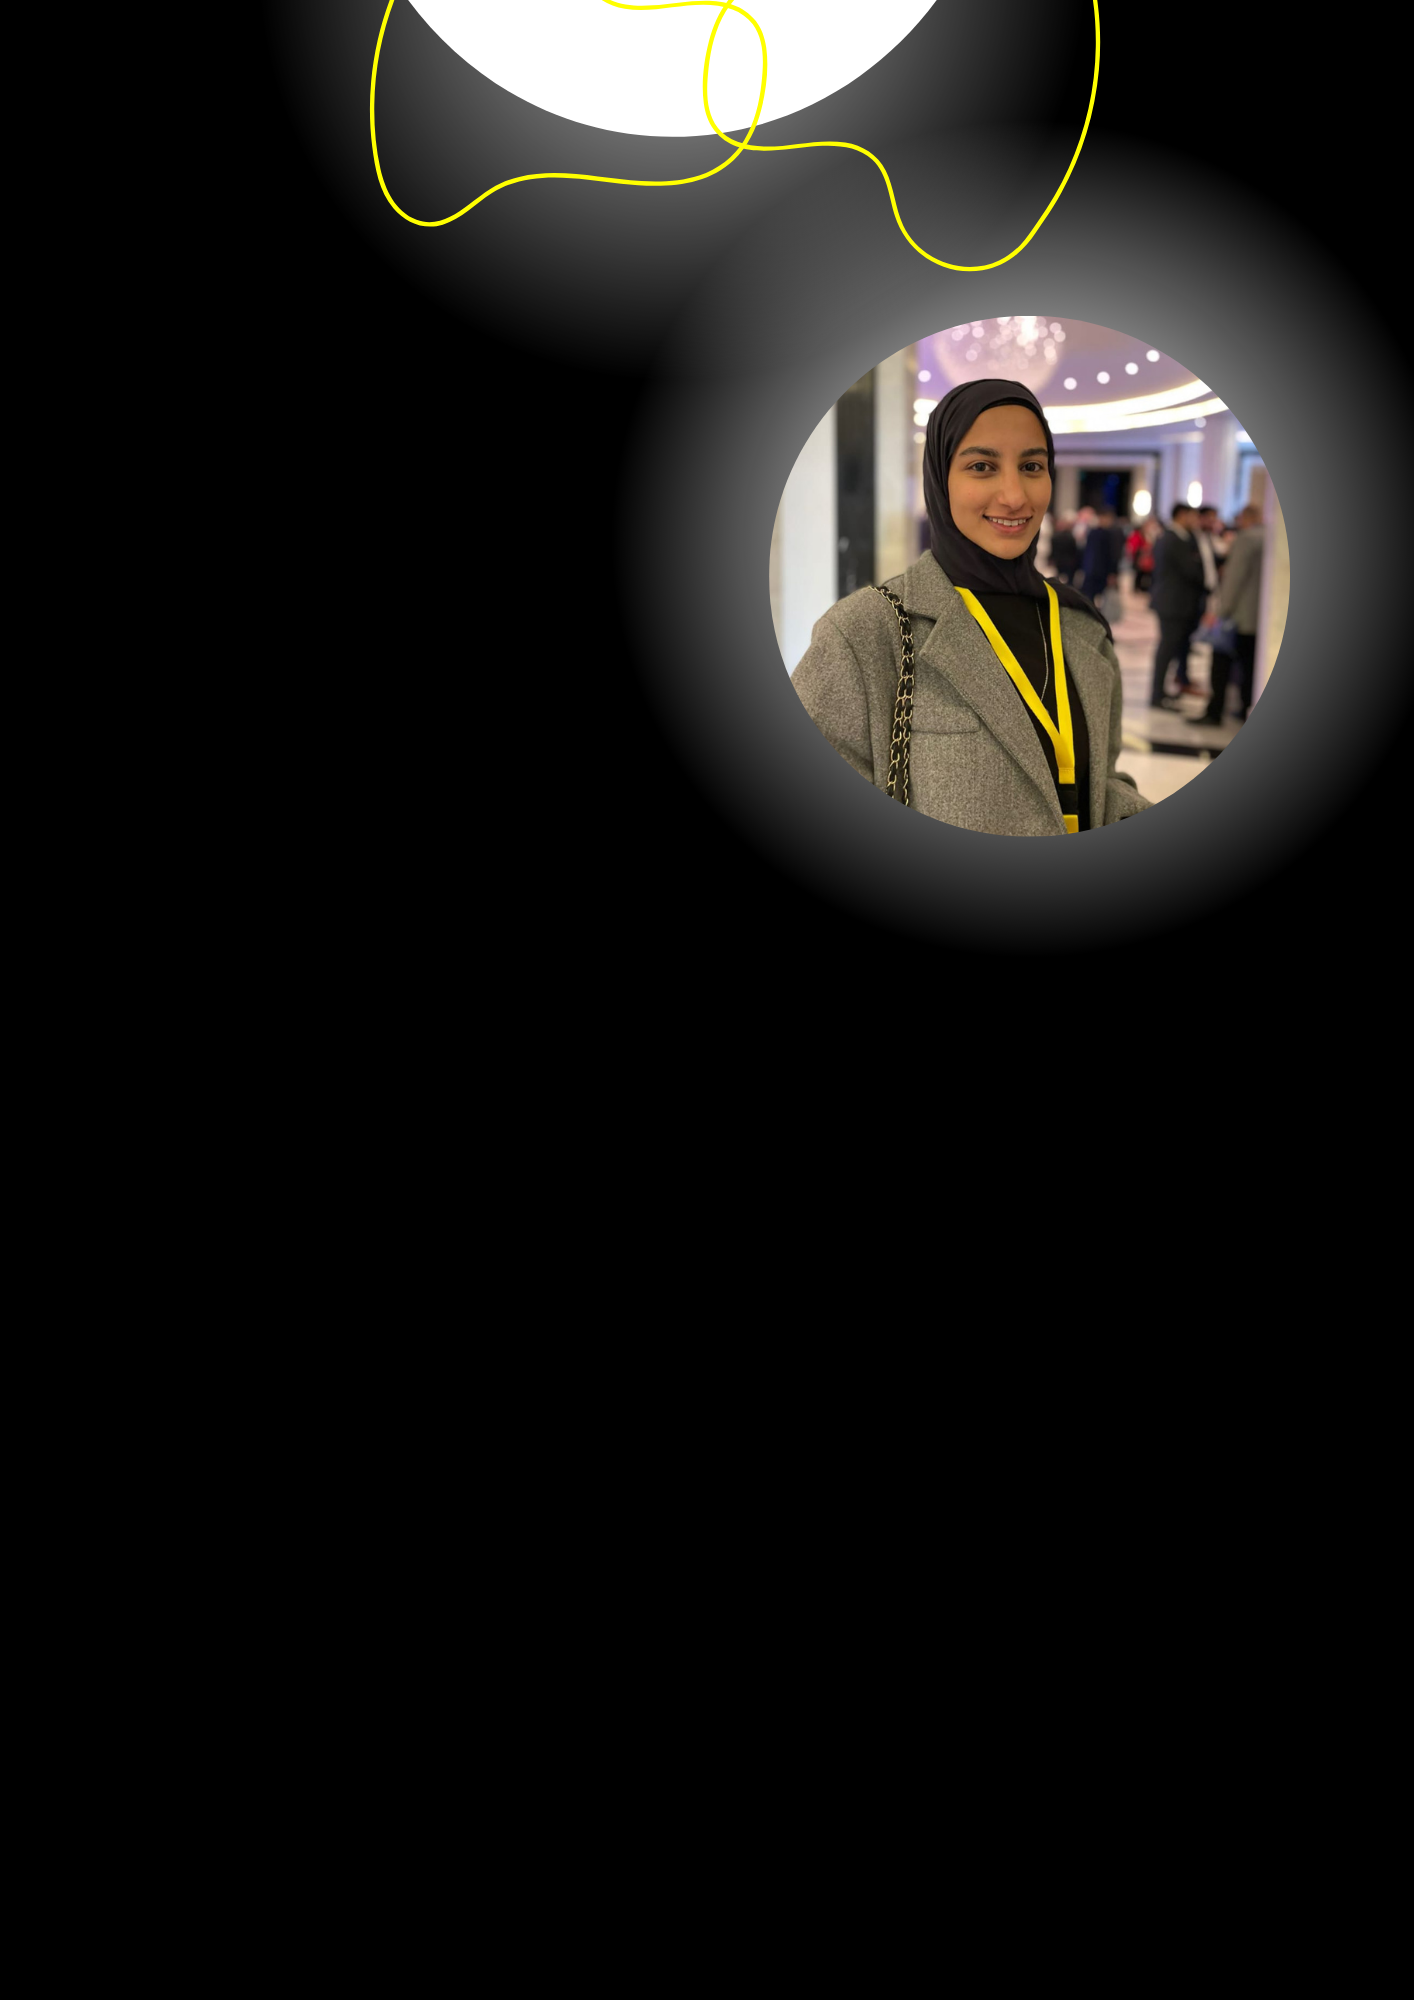
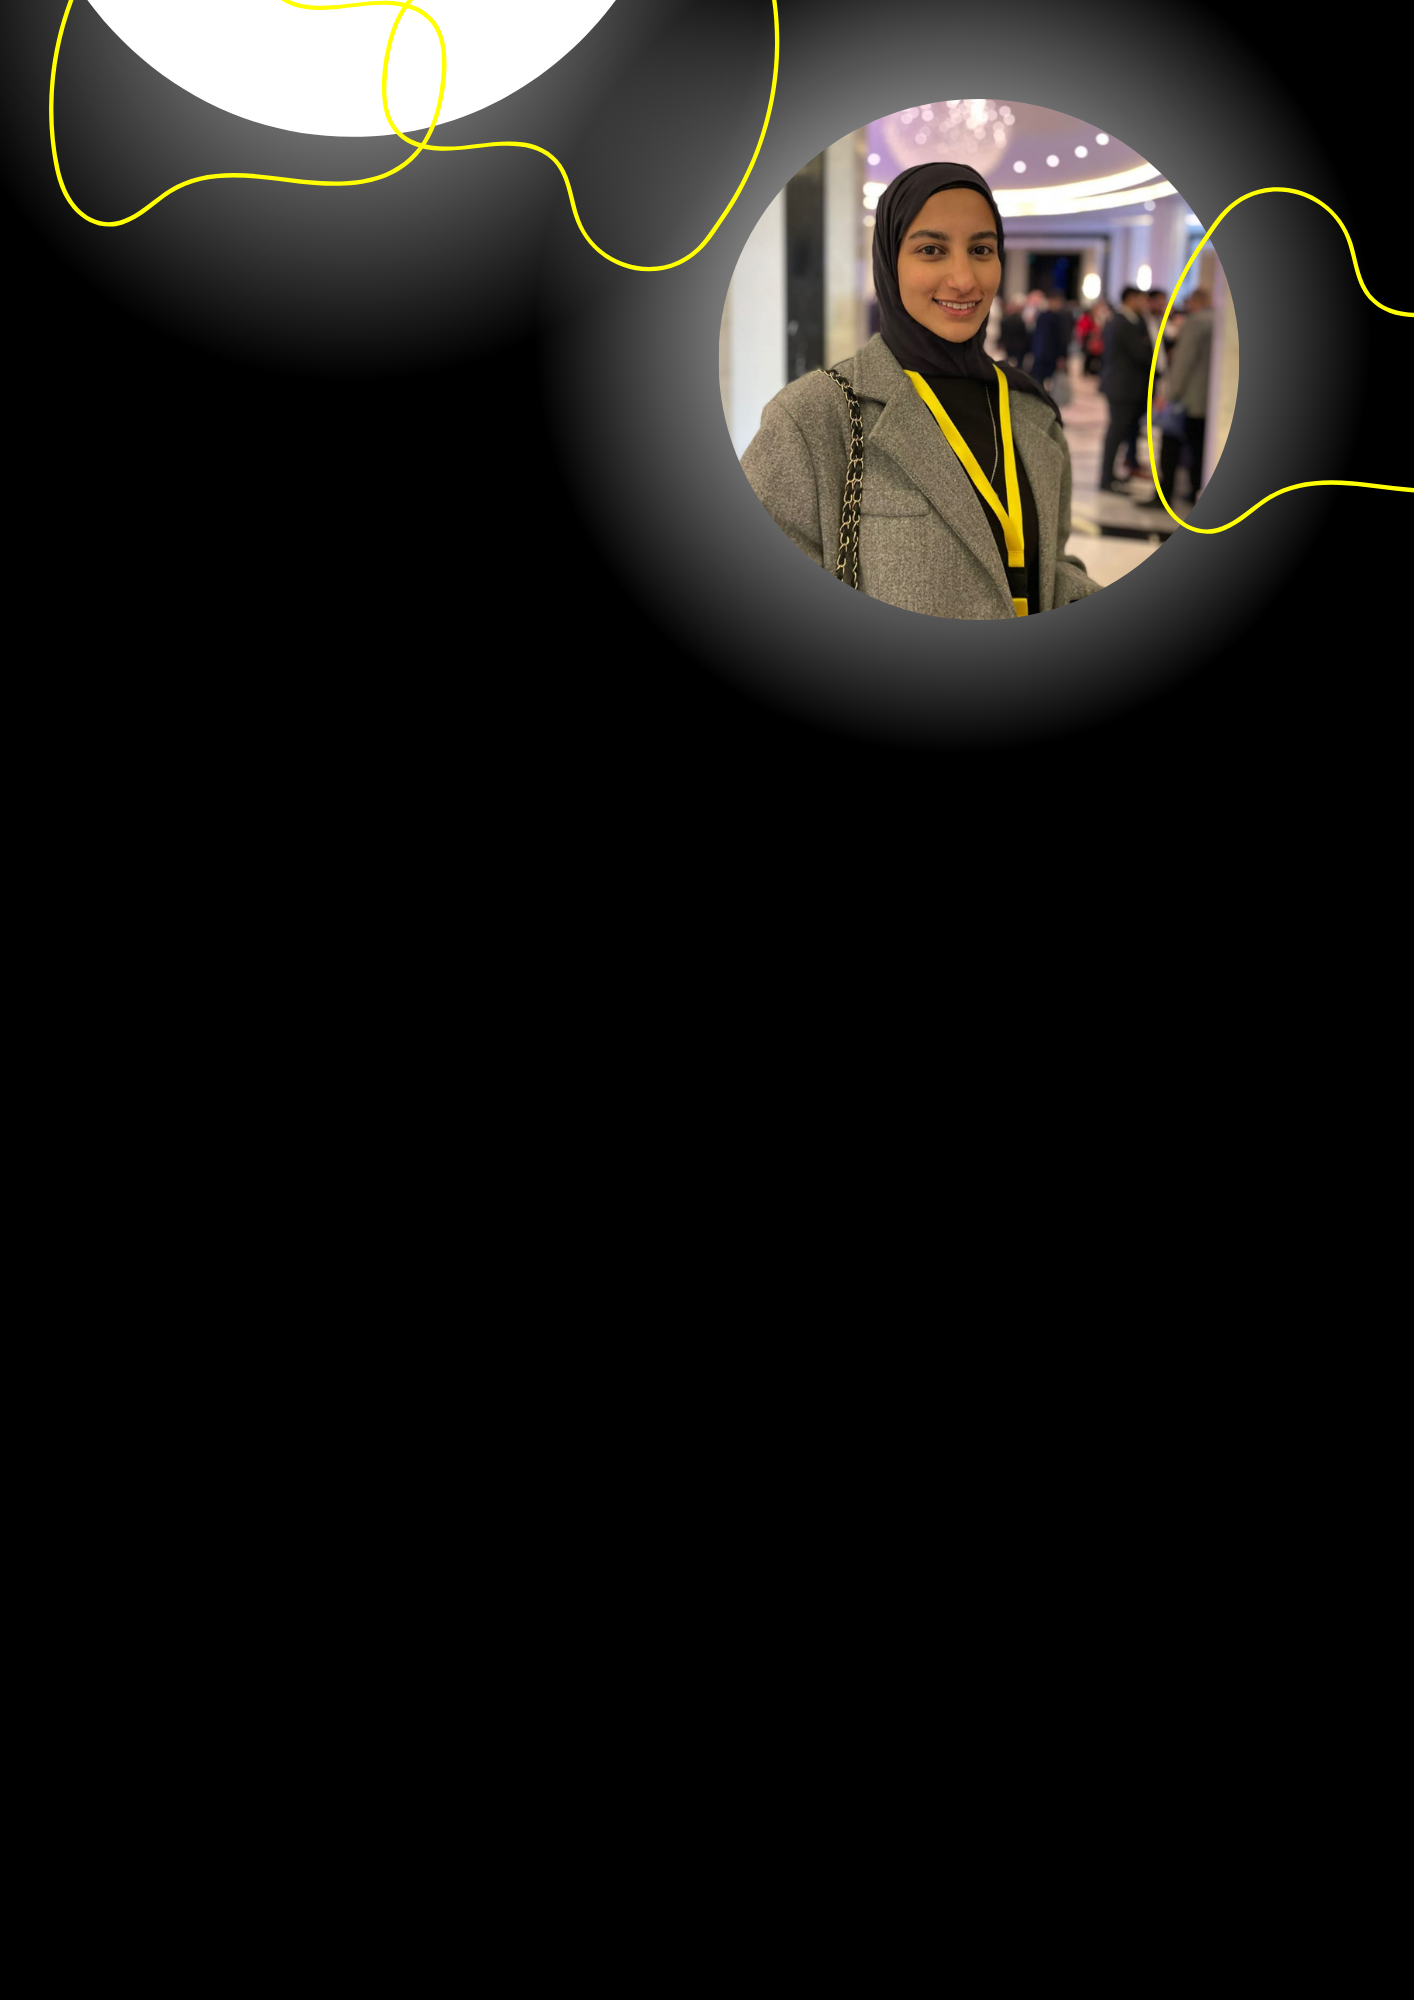
a

Changed region(s): [[0.0, 0.0, 1.0, 0.465]]

diff --git a/assets/css/johndoe.css b/assets/css/johndoe.css
@@ -11535,15 +11535,21 @@ ul.social-icons a {
   background-attachment: fixed;
   color: #fff;
 }
-@media (max-width:463px) {
+@media (max-width: 570px) {
   .header {
     background: #000;
-      background-image: url(../imgs/headersondos4.png);
-        background-size: cover;
-          background-position: center;
-          background-repeat: no-repeat;
-          background-attachment: fixed;
+      background-image: url(../imgs/headersondos4.png) !important;
+        background-size: cover !important;
+          background-position: center !important;
+          background-repeat: no-repeat !important;
+          background-attachment: fixed !important;
   }
+    .header .header-content .header-title {
+      font-size: 25px !important;
+    }
+    .header .header-content .header-mono {
+      
+    }
 }
 .yelloww {
   background-color: yellow;

diff --git a/index.html b/index.html
@@ -35,11 +35,7 @@
                                         data-aos-easing="ease-in-out"
                                             
                                             >Hi, This is</h4>
-                <h1 class="header-title"
-                data-aos="fade-right" data-aos-duration="2000"
-                                        data-aos-delay="50"
-                                    data-aos-easing="ease-in-out"
-                >Sondos Alfukaha</h1>
+                <h1 class="header-title">Sondos Alfukaha</h1>
                 <h6 class="header-mono"
                 data-aos="fade-right"
                 data-aos-duration="2000"
